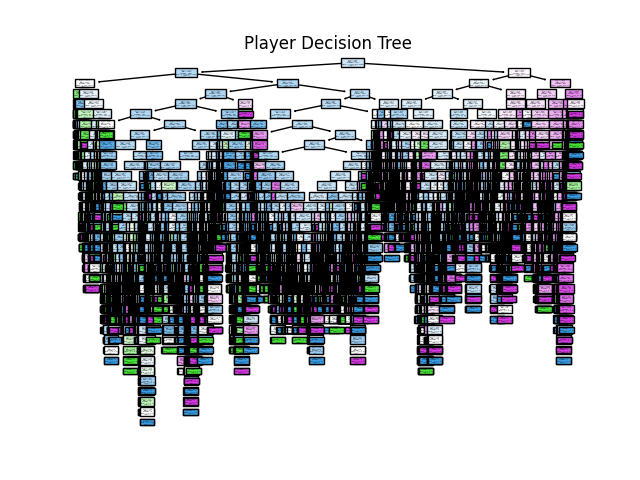
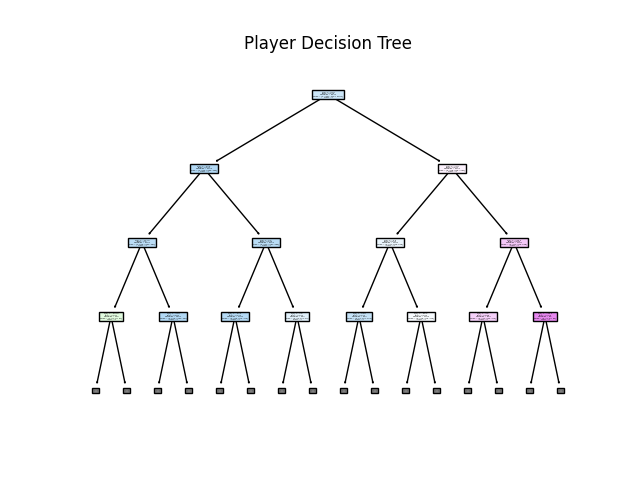
final updates

diff --git a/analysis/svm.py b/analysis/svm.py
@@ -26,13 +26,11 @@ def plot_multiclass_fig_2D():
     # define the color mapping
     color_mapping = {
         '-1': "red",
-        '0': "blue",
         '1': "green",
     }
 
     # define the label mapping
     label_mapping = {
-        "Draw",
         "Black wins",
         "White wins"
     }
@@ -41,7 +39,7 @@ def plot_multiclass_fig_2D():
     df_new.dropna()
 
     # for each class
-    for cls in ['0','-1','1']:
+    for cls in ['-1','1']:
         # get the examples of that class
         examples = df_new[df_new['result'] == cls].to_numpy()
         print(examples)
@@ -49,7 +47,7 @@ def plot_multiclass_fig_2D():
         Xs = examples[:, 1] # get all rows from column 0 (elo_diff)
         Ys = examples[:, 2] # get all rows from column 1 (time_since_gm_diff)
         # for running different tests
-        ax.scatter(Xs, Ys, c=color_mapping[cls], alpha=0.3) # c: color
+        ax.scatter(Xs, Ys, c=color_mapping[cls], alpha=0.4) # c: color
 
     # title, axes
     ax.set_title("Scatter Plot")
@@ -59,7 +57,8 @@ def plot_multiclass_fig_2D():
     ax.legend(labels=label_mapping)
     
     # save the figure
-    plt.savefig("../graphs/2d-scatter")
+    plt.show()
+    # plt.savefig("../graphs/2d-scatter")
 
 def plot_multiclass_fig_3D():
     df = get_chess_df()
@@ -108,7 +107,8 @@ def plot_multiclass_fig_3D():
     ax.legend(labels=label_mapping)
     
     # save the figure
-    plt.savefig("../graphs/3d-scatter.png")
+    plt.show()
+    # plt.savefig("../graphs/3d-scatter.png")
 
 
 def svm(model_name="svm"):
@@ -170,6 +170,6 @@ def svm(model_name="svm"):
 
 if __name__ == "__main__":
     print("SVM")
-    svm()
+    # svm()
     # plot_multiclass_fig_3D()
-    # plot_multiclass_fig_2D()
+    plot_multiclass_fig_2D()

diff --git a/analysis/decision_tree.py b/analysis/decision_tree.py
@@ -28,10 +28,11 @@ def decision_tree(model_name="decision_tree"):
 
     # if model_name is not 'dummy':
         # plt.savefig("../graphs/[" + model_name + "]-confusion_matrix")
-    tree.plot_tree(model,
+    tree.plot_tree(model, max_depth=3,
                    class_names=TARGET_NAME,
                    filled=True)
     plt.title('Player Decision Tree')
+    # plt.show()
     plt.savefig("../graphs/chess_decision_tree")
 
 if __name__ == "__main__":
